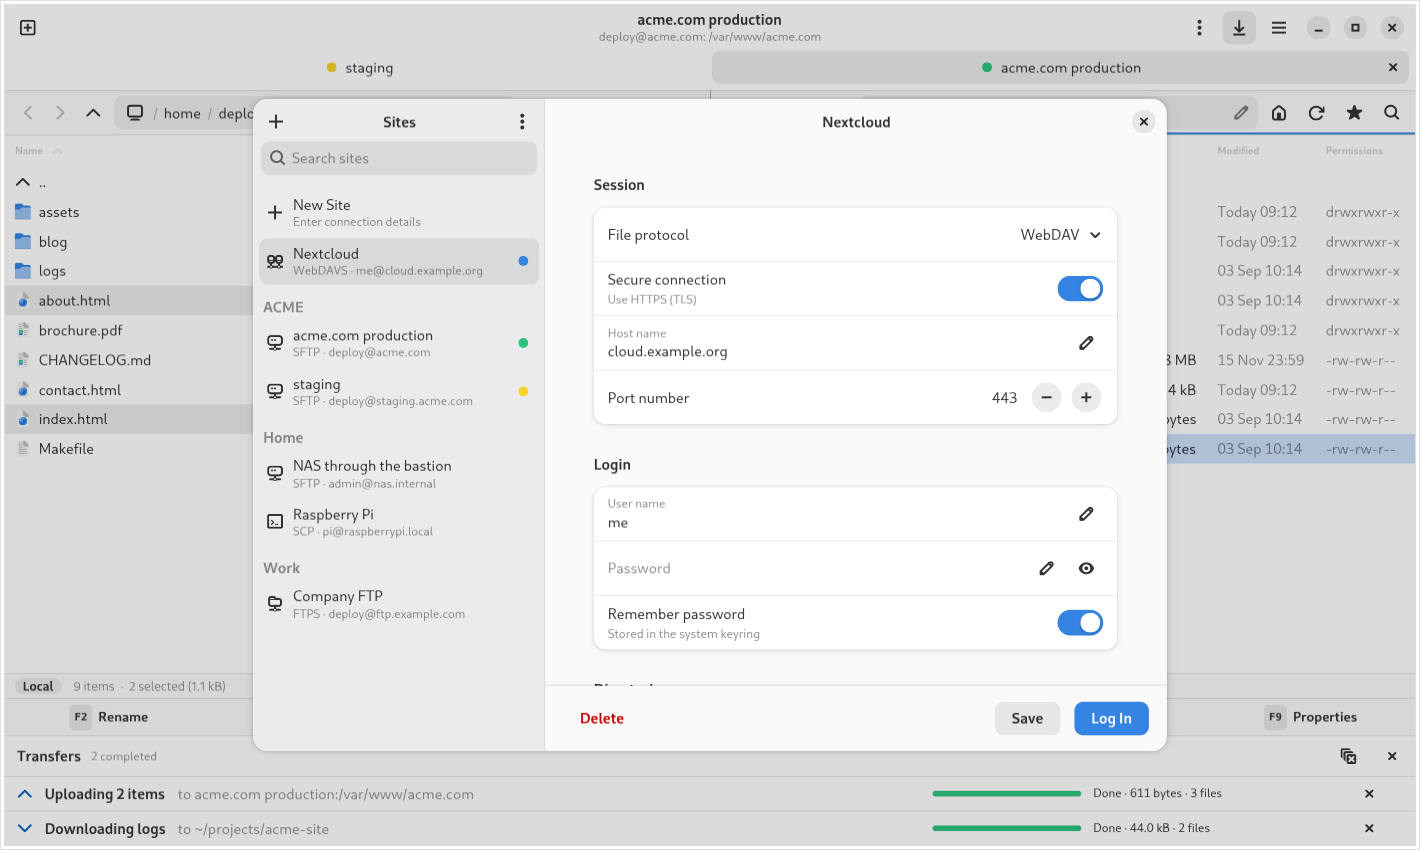
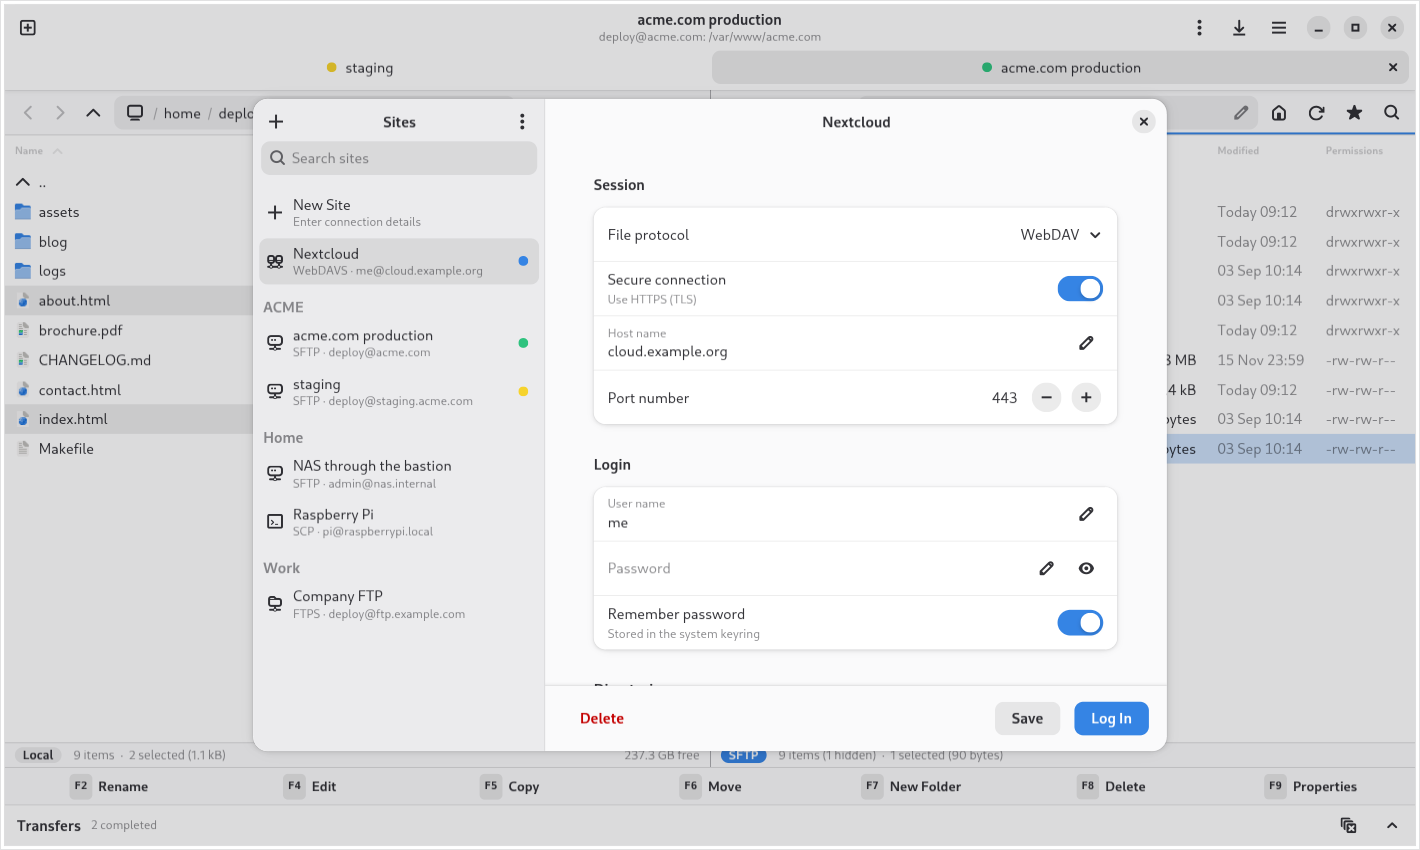
Transfer bar: always in view, its list opens and closes
The transfers are now a bar along the bottom of the window that is always
there, with a summary ("1 running, 0 waiting", "3 completed"). The list
of transfers below it opens when a transfer starts and closes back to the
bar 2 seconds after the last one has finished (not after a failure, as
before). A click on the bar, its arrow button, the header's button or
Ctrl+J opens and closes the list, so the finished transfers of the
session can be looked at again; opened by hand it stays open.

The GUI scenario checks the bar stays in view while the list is closed,
and that a click on it shows the finished transfers; the README and its
screenshots show the new bar.

Claude-Session: https://claude.ai/code/session_011QaJkJGtADwtjrLqt8LnWn

diff --git a/anyscp/data/style.css b/anyscp/data/style.css
@@ -201,6 +201,10 @@ columnview.file-list > listview > row.drop-target {
   padding: 3px 6px 3px 12px;
 }
 
+.queue-bar:hover {
+  background: alpha(currentColor, 0.04);
+}
+
 .queue-empty {
   padding: 2px 12px 10px 12px;
 }

diff --git a/anyscp/ui/queue_panel.py b/anyscp/ui/queue_panel.py
@@ -7,7 +7,7 @@ from __future__ import annotations
 
 import math
 
-from gi.repository import Adw, GLib, Graphene, Gsk, Gtk, Pango
+from gi.repository import Adw, Gdk, GLib, GObject, Graphene, Gsk, Gtk, Pango
 
 from ..compat import shortcut_label
 from ..transfer import CANCELLED, DONE, FAILED, QUEUED, RUNNING
@@ -133,7 +133,13 @@ class JobRow(Gtk.ListBoxRow):
 
 
 class QueuePanel(Gtk.Box):
-    """The queue: a title line and one line per transfer, newest first."""
+    """The transfers, along the bottom of the window: a bar that is always
+    there, with a summary, and below it the list of transfers (newest first),
+    which opens and closes when the bar is clicked."""
+
+    __gtype_name__ = "AnyscpQueuePanel"
+
+    expanded = GObject.Property(type=bool, default=False)
 
     def __init__(self, manager):
         super().__init__(orientation=Gtk.Orientation.VERTICAL)
@@ -142,8 +148,9 @@ class QueuePanel(Gtk.Box):
         self.rows: dict[int, JobRow] = {}
         self._timer = 0
 
-        bar = Gtk.Box(orientation=Gtk.Orientation.HORIZONTAL, spacing=10)
+        self.bar = bar = Gtk.Box(orientation=Gtk.Orientation.HORIZONTAL, spacing=10)
         bar.add_css_class("queue-bar")
+        bar.set_cursor_from_name("pointer")
         title = Gtk.Label(label="Transfers", xalign=0)
         title.add_css_class("heading")
         bar.append(title)
@@ -155,26 +162,51 @@ class QueuePanel(Gtk.Box):
         self.clear_btn.add_css_class("flat")
         self.clear_btn.connect("clicked", lambda *_a: manager.clear_finished())
         bar.append(self.clear_btn)
-        self.close_btn = Gtk.Button(icon_name="window-close-symbolic", tooltip_text=shortcut_label("Hide (Ctrl+J)"))
-        self.close_btn.add_css_class("flat")
-        bar.append(self.close_btn)          # the window connects it
+        self.expand_btn = Gtk.Button()
+        self.expand_btn.add_css_class("flat")
+        self.expand_btn.connect("clicked", lambda *_a: self.toggle())
+        bar.append(self.expand_btn)
+        # A click anywhere on the bar opens or closes the list (the buttons on
+        # it take their own clicks).
+        click = Gtk.GestureClick(button=Gdk.BUTTON_PRIMARY)
+        click.connect("released", lambda *_a: self.toggle())
+        bar.add_controller(click)
         self.append(bar)
 
         self.empty = Gtk.Label(label="No transfers. Drag files between the panes, or select files and press F5.",
                                xalign=0, ellipsize=Pango.EllipsizeMode.END)
         self.empty.add_css_class("queue-empty")
         self.empty.add_css_class("dim-label")
-        self.append(self.empty)
-
         self.listbox = Gtk.ListBox(selection_mode=Gtk.SelectionMode.NONE)
         self.listbox.add_css_class("queue-list")
         self.scroller = Gtk.ScrolledWindow(child=self.listbox, hscrollbar_policy=Gtk.PolicyType.NEVER,
                                            propagate_natural_height=True,
                                            max_content_height=MAX_LIST_HEIGHT)
-        self.append(self.scroller)
+        body = Gtk.Box(orientation=Gtk.Orientation.VERTICAL)
+        body.append(self.empty)
+        body.append(self.scroller)
+        self.revealer = Gtk.Revealer(child=body, transition_type=Gtk.RevealerTransitionType.SLIDE_UP,
+                                     transition_duration=150)
+        self.bind_property("expanded", self.revealer, "reveal-child", GObject.BindingFlags.SYNC_CREATE)
+        self.connect("notify::expanded", lambda *_a: self._expanded_changed())
+        self.append(self.revealer)
 
         manager.connect("changed", lambda *_a: self.sync_rows())
         self.sync_rows()
+        self._expanded_changed()
+
+    def toggle(self):
+        self.props.expanded = not self.props.expanded
+
+    def _expanded_changed(self):
+        if self.props.expanded:
+            self.expand_btn.set_icon_name("pan-down-symbolic")
+            self.expand_btn.set_tooltip_text(shortcut_label("Close the list of transfers (Ctrl+J)"))
+            self.add_css_class("expanded")
+        else:
+            self.expand_btn.set_icon_name("pan-up-symbolic")
+            self.expand_btn.set_tooltip_text(shortcut_label("Show the transfers (Ctrl+J)"))
+            self.remove_css_class("expanded")
 
     def sync_rows(self):
         current = {job.id: job for job in self.manager.jobs}

diff --git a/anyscp/ui/window.py b/anyscp/ui/window.py
@@ -21,7 +21,7 @@ from .session_page import SessionPage
 from .site_dialog import PROTOCOL_ICONS, SiteDialog
 from .welcome import WelcomePage
 
-QUEUE_HIDE_DELAY_MS = 2000      # the queue closes this long after its last transfer finished
+QUEUE_COLLAPSE_DELAY_MS = 2000  # the list of transfers closes this long after the last one finished
 
 PAGE_ACTIONS = {
     # name: accelerators
@@ -63,17 +63,17 @@ class MainWindow(Adw.ApplicationWindow):
         self.set_size_request(640, 420)
 
         self.toasts = Adw.ToastOverlay()
-        # The transfer queue is a bottom bar over the full width of the
-        # window, as in WinSCP.  It opens when a transfer starts and closes
-        # by itself shortly after the last one has finished.
+        # The transfers are a bar over the full width of the bottom of the
+        # window, as in WinSCP.  The bar is always there; the list of
+        # transfers below it opens when a transfer starts and closes by itself
+        # shortly after the last one has finished (and on a click on the bar).
         view = Adw.ToolbarView(top_bar_style=Adw.ToolbarStyle.RAISED,
-                               bottom_bar_style=Adw.ToolbarStyle.RAISED_BORDER,
-                               reveal_bottom_bars=False)
+                               bottom_bar_style=Adw.ToolbarStyle.RAISED_BORDER)
         self.queue_panel = QueuePanel(self.transfers)
         view.add_bottom_bar(self.queue_panel)
         self._queue_busy = False            # transfers are queued or running
         self._queue_busy_since = 0.0
-        self._queue_autohide = False        # close the queue once it has drained
+        self._queue_autohide = False        # close the list once the queue has drained
         self._queue_hide_timer = 0
         header = Adw.HeaderBar()
         self.window_title = Adw.WindowTitle(title="anySCP")
@@ -86,10 +86,9 @@ class MainWindow(Adw.ApplicationWindow):
         self.queue_btn = Gtk.ToggleButton(tooltip_text=compat.shortcut_label("Transfers (Ctrl+J)"))
         self.queue_btn.add_css_class("image-button")
         self.queue_btn.set_child(ProgressIcon(self.transfers))
-        self.queue_btn.bind_property("active", view, "reveal-bottom-bars",
+        self.queue_btn.bind_property("active", self.queue_panel, "expanded",
                                      GObject.BindingFlags.BIDIRECTIONAL | GObject.BindingFlags.SYNC_CREATE)
         self.queue_btn.connect("notify::active", self._on_queue_toggled)
-        self.queue_panel.close_btn.connect("clicked", lambda *_a: self.queue_btn.set_active(False))
         header.pack_end(self._main_menu_button())
         header.pack_end(self.queue_btn)
         self.session_menu_btn = Gtk.MenuButton(icon_name="view-more-symbolic", tooltip_text="Session",
@@ -530,7 +529,7 @@ class MainWindow(Adw.ApplicationWindow):
             self._queue_hide_timer = 0
 
     def _on_transfers_changed(self, *_a):
-        """Close the queue QUEUE_HIDE_DELAY_MS after its last transfer finished."""
+        """Close the list QUEUE_COLLAPSE_DELAY_MS after the last transfer finished."""
         if self.transfers.active:
             if not self._queue_busy:
                 self._queue_busy = True
@@ -546,7 +545,7 @@ class MainWindow(Adw.ApplicationWindow):
         if any(j.state == FAILED and (j.finished_at or 0) >= self._queue_busy_since
                for j in self.transfers.jobs):
             return                          # keep the error and its Retry button in view
-        self._queue_hide_timer = GLib.timeout_add(QUEUE_HIDE_DELAY_MS, self._hide_drained_queue)
+        self._queue_hide_timer = GLib.timeout_add(QUEUE_COLLAPSE_DELAY_MS, self._hide_drained_queue)
 
     def _hide_drained_queue(self):
         self._queue_hide_timer = 0

diff --git a/tests/gui/ui_scenario.py b/tests/gui/ui_scenario.py
@@ -57,7 +57,7 @@ from anyscp.transfer import AutoDecider  # noqa: E402
 from anyscp.ui import dragout  # noqa: E402
 from anyscp.ui.file_pane import FilePane  # noqa: E402
 from anyscp.ui.site_dialog import AUTH_MODES, SiteDialog  # noqa: E402
-from anyscp.ui.window import QUEUE_HIDE_DELAY_MS  # noqa: E402
+from anyscp.ui.window import QUEUE_COLLAPSE_DELAY_MS  # noqa: E402
 
 result = {"ok": False, "steps": []}
 T0 = time.monotonic()
@@ -447,10 +447,27 @@ def test_proxy_and_jump_site(app):
 
 # ---------------------------------------------------------------------------- B
 
+def queue_bar_only(win):
+    """The transfers are just their bar: one line along the bottom, full width."""
+    ok, rect = win.queue_panel.compute_bounds(win)
+    return (ok and win.queue_panel.get_mapped() and 20 < rect.size.height < 60
+            and abs(rect.origin.y + rect.size.height - win.get_height()) <= 2
+            and abs(rect.size.width - win.get_width()) <= 2)
+
+
+def click_queue_bar(win):
+    """What a click on the transfer bar does (its click gesture's release)."""
+    controllers = win.queue_panel.bar.observe_controllers()
+    gesture = next(c for c in (controllers.get_item(i) for i in range(controllers.get_n_items()))
+                   if isinstance(c, Gtk.GestureClick))
+    gesture.emit("released", 1, 20.0, 10.0)
+
+
 def test_queue(app, page):
     win, lp, rp = app.window, page.local_pane, page.remote_pane
-    delay = QUEUE_HIDE_DELAY_MS / 1000
-    step("the queue is closed while nothing is transferred", not win.queue_btn.get_active())
+    delay = QUEUE_COLLAPSE_DELAY_MS / 1000
+    step("the list of transfers is closed while nothing is transferred", not win.queue_btn.get_active())
+    step("... and the transfer bar is there all the same, along the bottom", spin(lambda: queue_bar_only(win), 3))
     # When the app learnt that a job had finished, and when the queue opened or closed
     seen_finished, toggled = {}, []
     app.transfers.connect("job-finished", lambda _m, j: seen_finished.setdefault(j.id, time.time()))
@@ -492,7 +509,15 @@ def test_queue(app, page):
          waited is not None and delay - 0.1 <= waited <= delay + 0.5 * SLOW,
          f"after {waited:.2f} s" if waited is not None else "it did not close")
     wait(0.5)
+    step("... down to its bar, which stays in view", spin(lambda: queue_bar_only(win), 3))
     screenshot(win, "queue-closed.png")
+    click_queue_bar(win)
+    step("a click on the bar shows the transfers again, the finished ones too",
+         spin(lambda: win.queue_btn.get_active() and laid_out(), 3) and job.id in win.queue_panel.rows)
+    wait(delay + 1)
+    step("... and they stay open", win.queue_btn.get_active())
+    click_queue_bar(win)
+    step("another click closes them", spin(lambda: not win.queue_btn.get_active() and queue_bar_only(win), 3))
 
     # two transfers: it closes after the second one only
     page.start_transfer(rp, [info_of(rp, "small.txt")], lp, lp.path)
@@ -530,8 +555,8 @@ def test_queue(app, page):
     wait(delay + 1.5)
     step("the queue stays open when opened by hand", win.queue_btn.get_active())
     screenshot(win, "queue-by-hand.png")
-    win.queue_panel.close_btn.emit("clicked")
-    step("its close button hides it", spin(lambda: not win.queue_btn.get_active(), 2))
+    win.queue_panel.expand_btn.emit("clicked")
+    step("its button on the bar closes it", spin(lambda: not win.queue_btn.get_active() and queue_bar_only(win), 2))
 
 
 # ---------------------------------------------------------------------------- C

diff --git a/anyscp/ui/preferences.py b/anyscp/ui/preferences.py
@@ -87,7 +87,8 @@ class PreferencesDialog(Adw.PreferencesDialog):
         tg = Adw.PreferencesGroup(title="Queue")
         tg.add(_spin("Parallel transfers", "How many queue entries run at the same time", 1, 10,
                      s, "parallel_transfers"))
-        tg.add(_switch("Show queue automatically", "Open the transfer queue at the bottom of the window when a transfer starts, "
+        tg.add(_switch("Open the transfer list automatically",
+                       "Open the list of transfers at the bottom of the window when a transfer starts, "
                        "and close it 2 seconds after the last one has finished",
                        s, "auto_show_queue"))
         transfer.add(tg)

diff --git a/docs/screenshots/generate.py b/docs/screenshots/generate.py
@@ -372,6 +372,8 @@ def in_app():
         app.transfers.cancel(big)
         spin(lambda: not app.transfers.active, 20)
         app.transfers.remove(big)
+        win.queue_btn.set_active(False)                 # the list closes: just the transfer bar
+        wait(0.5)
 
         win.edit_site(by_name["Nextcloud"])
         wait(0.8)

diff --git a/README.md b/README.md
@@ -39,7 +39,7 @@ import your saved WinSCP sites.
 - The local pane updates automatically when files change on disk
 
 **Transfers**
-- Background queue in a panel along the bottom of the window (as in WinSCP), with progress, speed, time remaining, cancel and retry. It opens when a transfer starts and closes 2 seconds after the last one has finished
+- Transfer bar along the bottom of the window (as in WinSCP), always in view with a summary. Its list of transfers (progress, speed, time remaining, cancel, retry) opens when a transfer starts and closes 2 seconds after the last one has finished; click the bar to see the finished transfers again
 - Several transfers run in parallel over extra SFTP channels on the same SSH connection, so you don't log in again
 - Recursive folder transfers that follow symlinked folders, with loop protection
 - Overwrite prompt: overwrite, skip, newer only, resume, or apply to all
